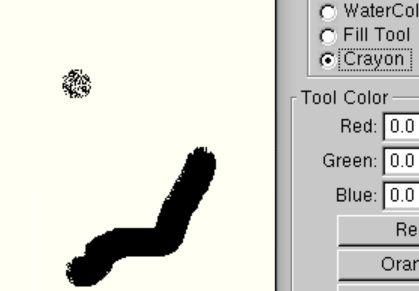
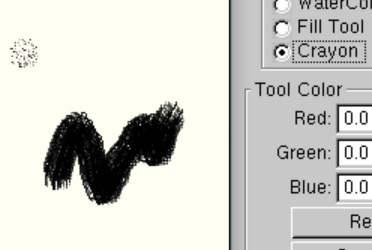
updating blog and Crayon

diff --git a/web/Juhwan Park/JuhwanParkBlog.html b/web/Juhwan Park/JuhwanParkBlog.html
@@ -20,7 +20,7 @@
       <p> The part of this project I wrote that I tried to start coding in C++ and put more effort on was the Crayon Tool.
         It is one of the tools that takes circle masks and randomly choose pixels to fill the mask.
         So this tool looks pretty rough surface at the edge of each mark it draws.  </p>
-      <p><img class="imgleft" src="files/code.jpg" width="300" height="500" alt="" /><p/>
+      <p><img class="imgleft" src="files/code.jpg" width="400" height="570" alt="" /><p/>
       <p> This snippet is from the Crayon tool class, which is the class I wrote for our team.
         On our final design, we decided to make a DrawTool class to implement basic methods for each tool class, and we inherited each class from DrawTool class.</br></br>
         The implementation of this is an override of one of the virtual methods from DrawTool class, fillInfluence class.
@@ -28,6 +28,8 @@
         We decided to use CamelCase variable and function names, brackets on the same lines as their statement and short functions. </p>
       <p> This code takes radius as a parameter and default value is 20. It calculates each distance from center of circle mask,
         and uses standard library function rand() to generate random number between 0 to 1 and put it into each pixel.
+        The reason why I multiplied two random 0s and 1s, is because I tried to generate more 0s than 1s to make the surface rougher.
+        After that, I put effect by using a random float number in between 0.0 and 1.0 to create random transparency for each pixel.
       <img class="imgright" src="files/screenshot.jpg" width="300" height="180" alt="" /> </p>
       <p>In this way, this tool looks rough surface at the edge like crayon.
         Maybe next iteration, I would elaborate some more by putting random transparency into each pixel of mask to look more like real Crayon drawing. </p>

diff --git a/src/Crayon.cpp b/src/Crayon.cpp
@@ -22,8 +22,10 @@ void Crayon::fillInfluence() {
       dy = (radius - j)*(radius - j);
       dist  = sqrt(dx + dy);
       int randNum = rand() % 2;
+      int randNum2 = rand() % 2;
+      float randNum3 = (rand() % 100)/100.0;
       if (dist <= radius) {
-        influence[i][j] = (float) randNum;
+        influence[i][j] = ((float) (randNum * randNum2)) * randNum3;
       } else {
         influence[i][j] = 0.0;
       }
